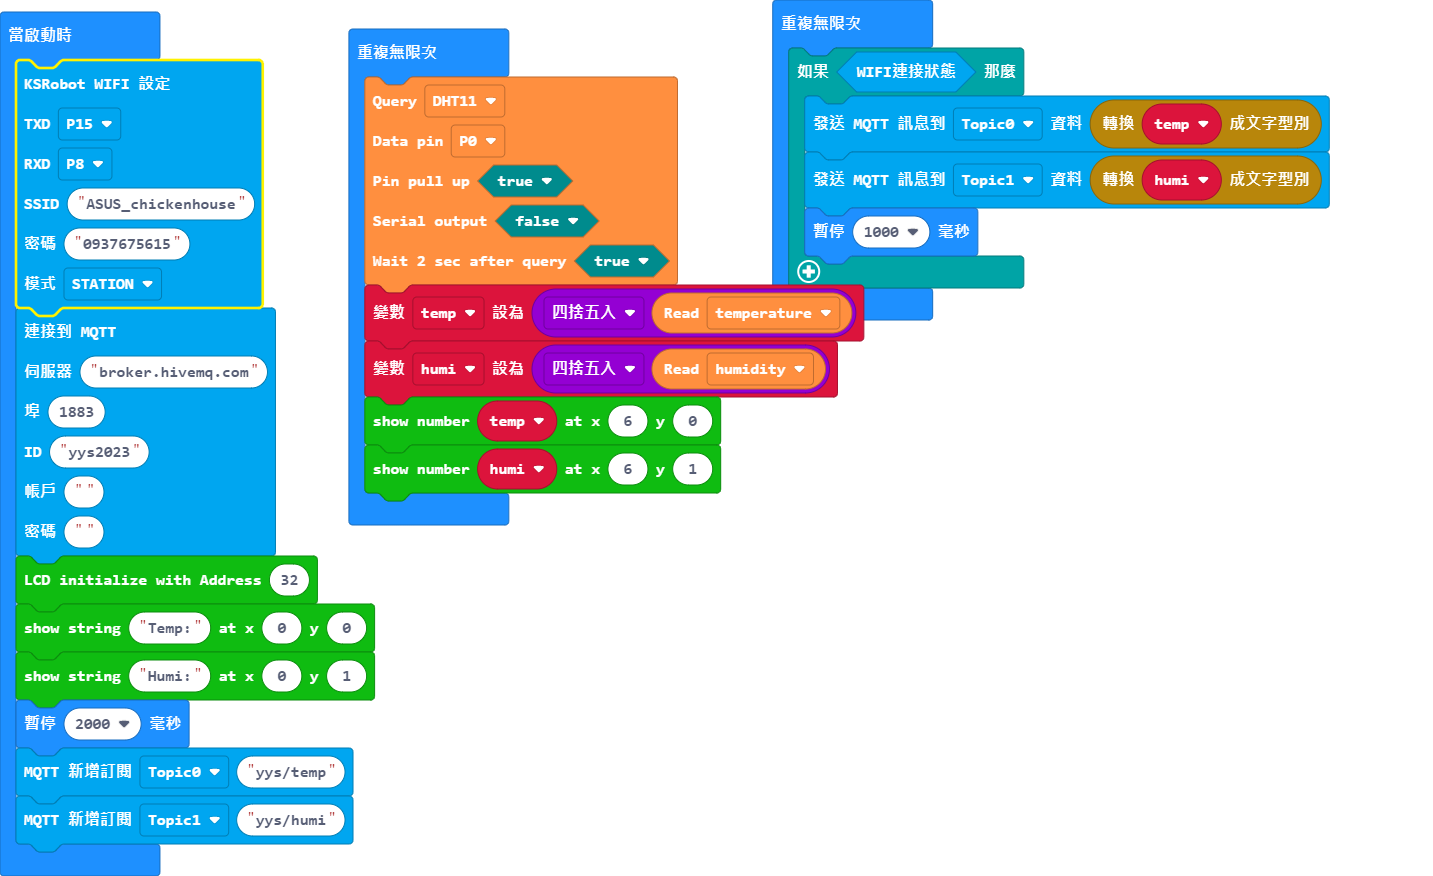
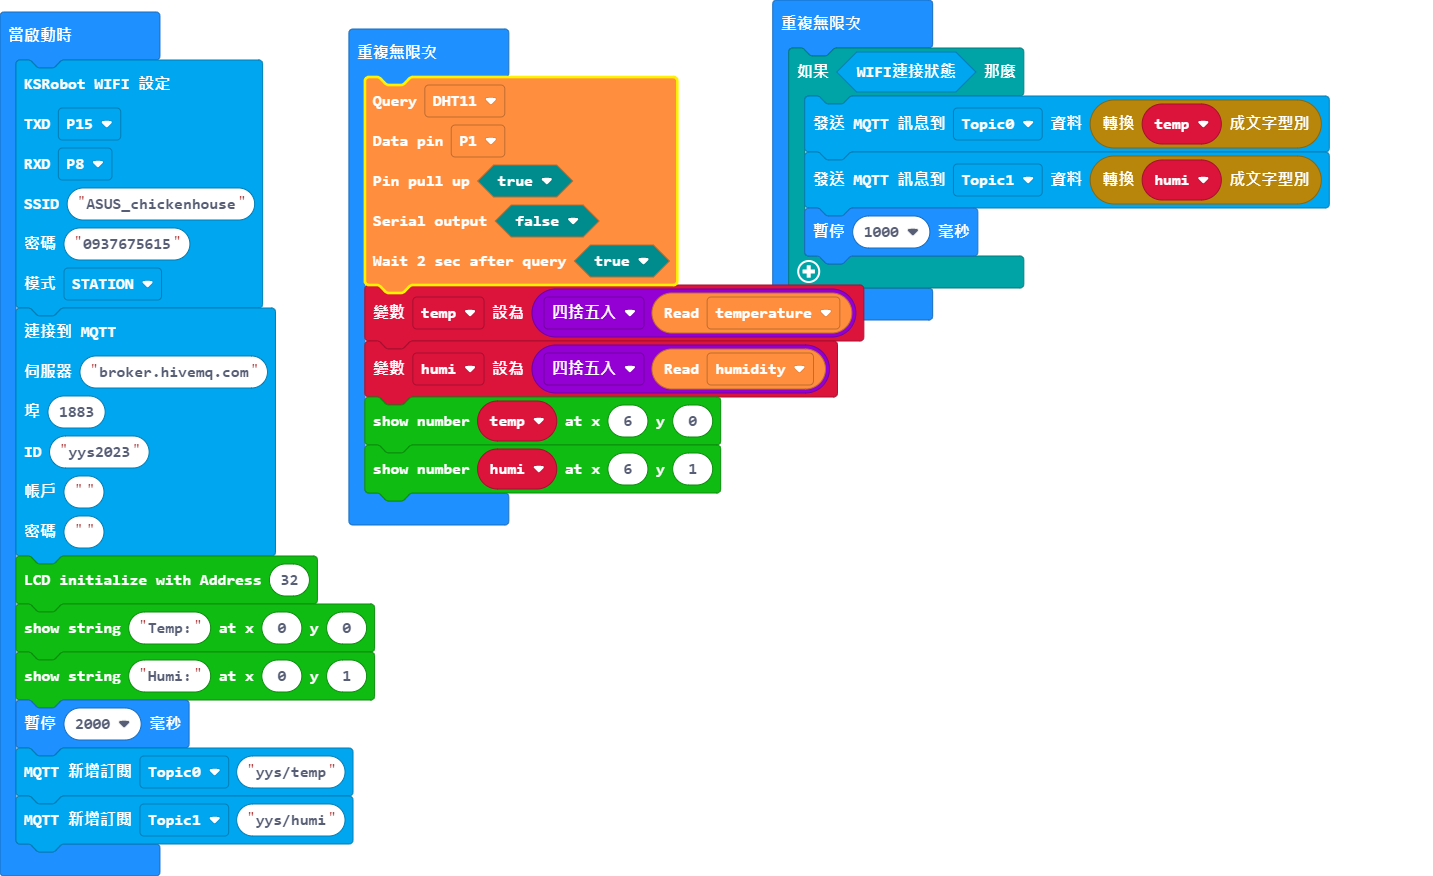
Update main.blocks, main.ts

diff --git a/main.ts b/main.ts
@@ -30,7 +30,7 @@ basic.forever(function () {
 basic.forever(function () {
     dht11_dht22.queryData(
     DHTtype.DHT11,
-    DigitalPin.P0,
+    DigitalPin.P1,
     true,
     false,
     true
